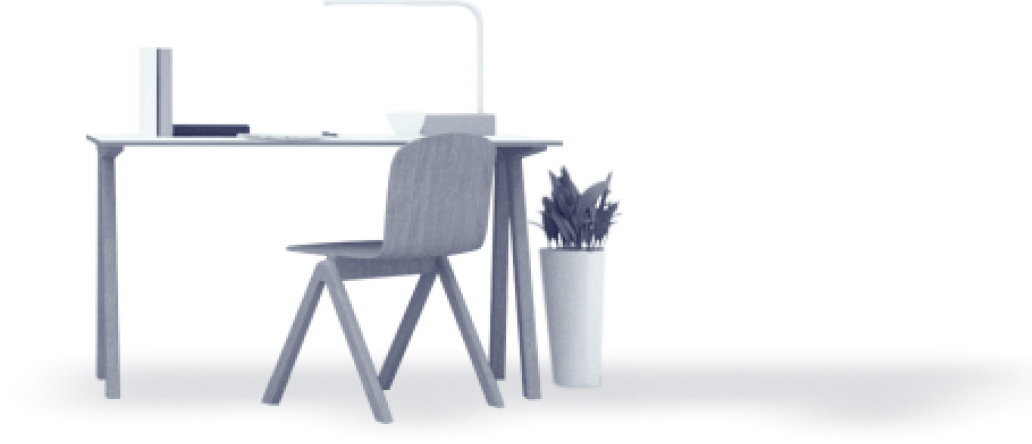
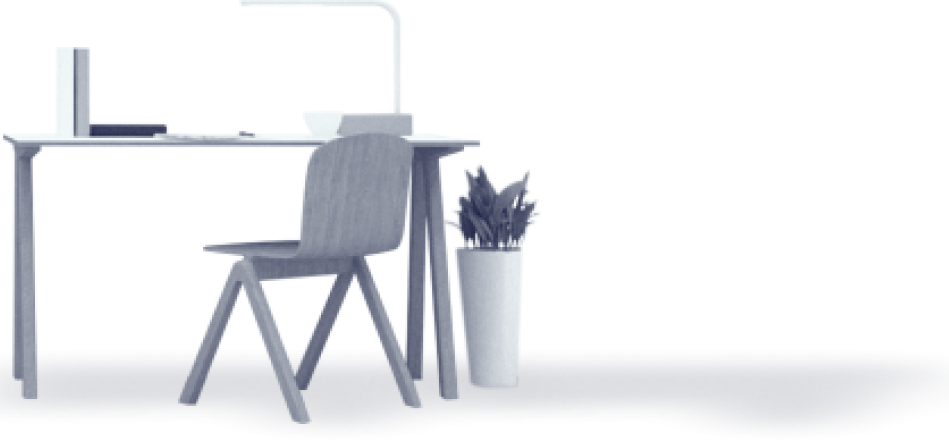
c05 样式响应

diff --git a/source/frontend/src/app/component/block/c05-self-segmentation-hero/c05-self-segmentation-hero.scss b/source/frontend/src/app/component/block/c05-self-segmentation-hero/c05-self-segmentation-hero.scss
@@ -1,26 +1,29 @@
 $prd: 100vw / 1920;
 $prm: 100vw / 360;
 
+$prh: 100vh / 1080;
+$prmh: 100vh / 640;
+
 [data-component="c05-self-segmentation-hero"] {
   width: 100%;
-  height: 640 * $prm;
+  height: 100vh;
   //background: url("~/assets/c05-self-segmentation-hero/hero_bg.png") no-repeat;
   //background-size: cover;
-  padding-top: 61 * $prm;
+  padding-top: 61 * $prmh;
   box-sizing: border-box;
   overflow: hidden;
   position: relative;
 
   @include respond-to(MEDIUM) {
     height: 100vh;
-    padding-top: 139 * $prd;
+    padding-top: 139 * $prh;
   }
   .c05-self-segmentation-hero__bg-top {
     position: absolute;
     top: 0;
     left: 0;
     width: 100%;
-    height: 542 * $prm;
+    height: 84.69vh;
     background: url("~/assets/c05-self-segmentation-hero/hero_bg.png") no-repeat;
     background-size: cover;
     @include respond-to(MEDIUM) {
@@ -32,7 +35,7 @@ $prm: 100vw / 360;
     bottom: 0;
     left: 0;
     width: 100%;
-    height: 98 * $prm;
+    height: 15.31vh;
     background: #f8ffff;
     @include respond-to(MEDIUM) {
       height: 18.5vh;
@@ -59,12 +62,15 @@ $prm: 100vw / 360;
           }
           .c05-self-segmentation-hero__title {
             position: absolute;
-            top: 75 * $prm;
+            bottom: 50%;
             left: 0;
             font-size: 64 * $prm;
             line-height: 56 * $prm;
+            @media (max-width: 768px) {
+              bottom: 40%;
+            }
             @include respond-to(MEDIUM) {
-              top: 80 * $prd;
+              bottom: 40%;
             }
             .c05-self-segmentation-hero__title-air {
               font-size: 64 * $prm;
@@ -110,19 +116,22 @@ $prm: 100vw / 360;
 
         .c05-self-segmentation-hero__top {
           position: absolute;
-          top: 123 * $prm;
+          //top: 123 * $prm;
+          //top: auto;
+          bottom: 65%;
           left: 23 * $prm;
           @include respond-to(MEDIUM) {
-            top: 149 * $prd;
+            top: auto;
+            bottom: 65%;
             left: 233 * $prd;
             &.right {
               left: 191 * $prd;
             }
           }
           [data-component="cta-border"] {
-            margin-top: 16 * $prm;
+            margin-top: 16 * $prmh;
             @include respond-to(MEDIUM) {
-              margin-top: 16 * $prd;
+              margin-top: 16 * $prh;
             }
             &.right {
               float: right;
@@ -142,25 +151,25 @@ $prm: 100vw / 360;
 
         .c05-self-segmentation-hero__img {
           position: absolute;
-          bottom: 98 * $prm;
+          top: 55%;
           left: 29 * $prm;
           width: 386 * $prm;
+          object-fit: contain;
           &.right {
-            bottom: 82 * $prm;
-            left: -21 * $prm;
-            width: 563 * $prm;
-            height: 224 * $prm;
+            top: 50%;
+            left: 23 * $prm;
+            width: 100%;
+            height: 224 * $prmh;
           }
           @include respond-to(MEDIUM) {
-            bottom: 4.81vh;
-            left: 179 * $prd;
+            top: 45%;
+            left: 233 * $prd;
             width: 1120 * $prd;
-            height: 516 * $prd;
+            height: 516 * $prh;
             &.right {
-              left: 105 * $prd;
-              bottom: 9.72vh;
+              left: 191 * $prd;
               width: 1112 * $prd;
-              height: 444 * $prd;
+              height: 444 * $prh;
             }
           }
         }

diff --git a/source/frontend/src/app/component/block/c05-self-segmentation-hero/C05SelfSegmentationHero.ts b/source/frontend/src/app/component/block/c05-self-segmentation-hero/C05SelfSegmentationHero.ts
@@ -15,7 +15,10 @@ export default class C05SelfSegmentationHero extends AbstractBlock {
   protected init = (): void => {
     var swiper = new Swiper(this.swiperContainer!, {
       slidesPerView: 'auto',
-      mousewheel: true,
+      mousewheel: {
+        forceToAxis: true,
+        releaseOnEdges: true,
+      },
       freeMode: true,
       initialSlide: 1,
       centeredSlides: true,
